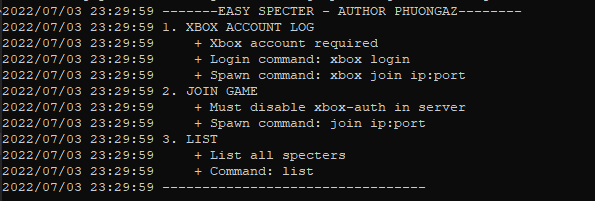
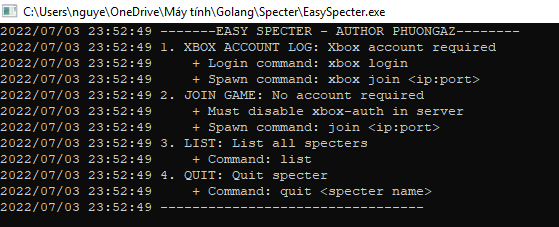
Implement quit specter

diff --git a/main.go b/main.go
@@ -17,16 +17,16 @@ func main() {
 	log := log.Default()
 
 	log.Println("-------EASY SPECTER - AUTHOR PHUONGAZ--------")
-	log.Println("1. XBOX ACCOUNT LOG")
-	log.Println("	+ Xbox account required")
+	log.Println("1. XBOX ACCOUNT LOG: Xbox account required")
 	log.Println("	+ Login command: xbox login")
-	log.Println("	+ Spawn command: xbox join ip:port")
-	log.Println("2. JOIN GAME")
+	log.Println("	+ Spawn command: xbox join <ip:port>")
+	log.Println("2. JOIN GAME: No account required")
 	log.Println("	+ Must disable xbox-auth in server")
-	log.Println("	+ Spawn command: join ip:port")
-	log.Println("3. LIST")
-	log.Println("	+ List all specters")
+	log.Println("	+ Spawn command: join <ip:port>")
+	log.Println("3. LIST: List all specters")
 	log.Println("	+ Command: list")
+	log.Println("4. QUIT: Quit specter")
+	log.Println("	+ Command: quit <specter name>")
 	log.Println("---------------------------------")
 	readConsole(log)
 }
@@ -81,6 +81,15 @@ func readConsole(log *log.Logger) {
 			for _, spt := range specters {
 				log.Println(spt.Conn.IdentityData().DisplayName + " in " + spt.Address)
 			}
+		case "quit":
+			name := args[0]
+			if spt, ok := specters[name]; ok {
+				spt.Conn.Close()
+				delete(specters, name)
+				log.Println("Specter " + name + " quit")
+				return
+			}
+			log.Println("Specter " + name + " not found")
 		}
 	}
 }
